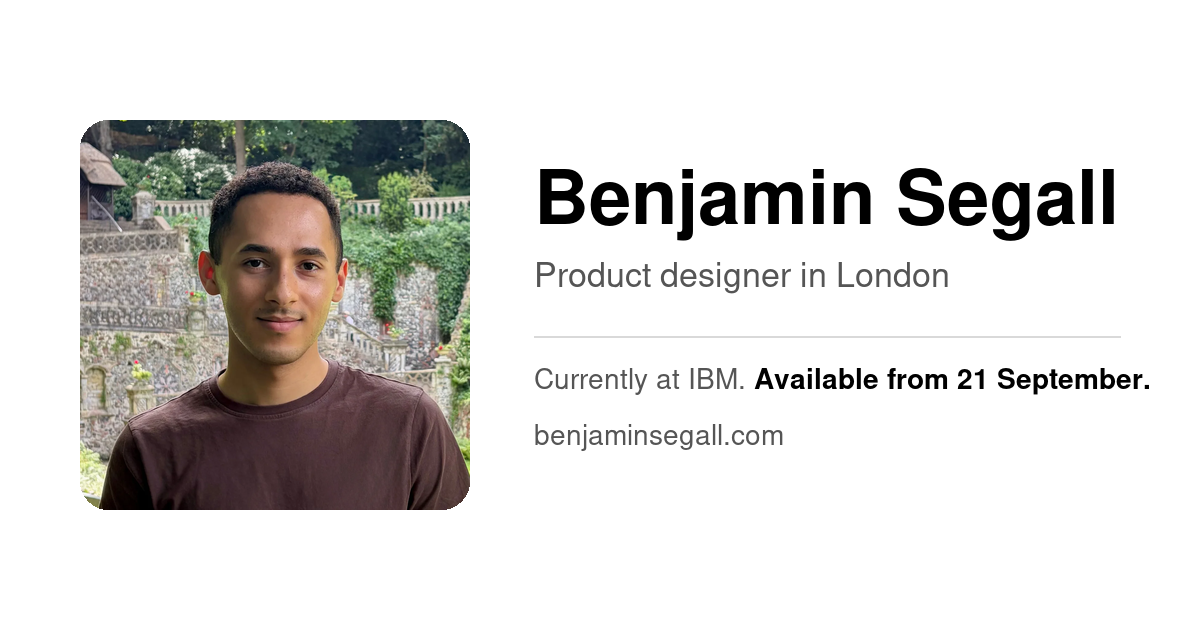
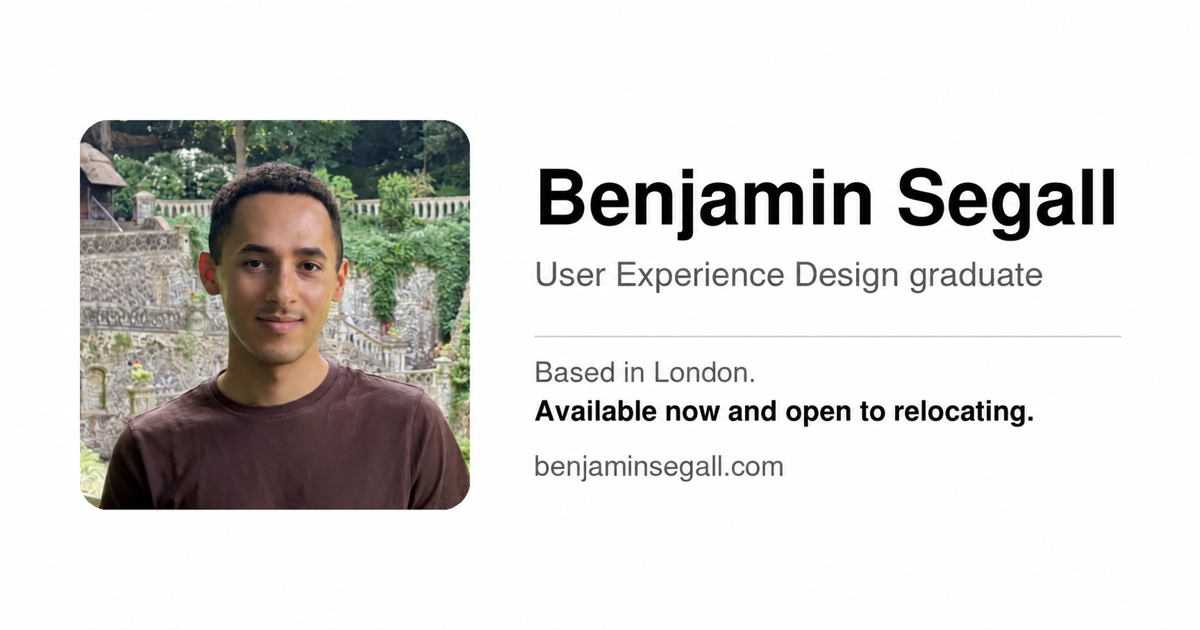
Update About copy, availability and social preview

diff --git a/lib/portfolio-data.ts b/lib/portfolio-data.ts
@@ -97,19 +97,17 @@ export function isGated(project: Project | GatedProject): project is GatedProjec
 export const profile = {
   name: "Benjamin Segall",
   bio: [
-    "I'm a product designer in London, with roots in the USA. I studied UX at Norwich University of the Arts and have worked across agency and consultancy teams, learning to hold user needs and business goals in the same hand.",
+    "Hi, I'm Ben. I recently graduated in User Experience Design from Norwich University of the Arts, with experience across agency, consultancy, enterprise and university teams. I enjoy understanding what people need and finding practical ways to make things work better.",
   ],
   // Revealed when the bio block is expanded, inserted between `bio` and
-  // `current` — the "Currently at IBM" line stays pinned last in both states.
+  // `current` — the location and availability stay pinned last in both states.
   more: [
-    "I start by understanding the problem, work through what is unclear, and find a practical way forward. I enjoy working early in the process, defining the problem and understanding the business context before deciding what to design, then turning those decisions into something real.",
+    "I like asking questions, listening to different perspectives and working out what to try next. My design background has given me a way to explore problems and test ideas. I'm interested in how organisations work and how technology can be useful in everyday work. I'm looking for an early career role where I can keep learning, work with people and help put improvements into practice.",
   ],
-  // Two sentences, so the availability — the actionable half — can be
-  // emphasised on its own. Combined they read exactly as the content spec:
-  // "Currently at IBM. Available from 21 September."
+  // Keep availability emphasised separately from location.
   current: {
-    employer: "Currently at IBM.",
-    availability: "Available from 21 September.",
+    location: "Based in London.",
+    availability: "Available now and open to relocating.",
   },
   portrait: {
     src: "/images/site/portrait.webp",
@@ -415,19 +413,17 @@ export const siteMeta = {
   /**
    * The site's name, everywhere a name is asked for: the <title>, so the tab,
    * bookmarks and history read as it; and the share card's headline and site
-   * name. Deliberately not "Benjamin Segall, Product Designer in London" — the
-   * role belongs in `description`, which sits directly under the headline on a
-   * card, and saying it in both stutters it back twice in two lines.
+   * name. The description adds background and availability below the name.
    */
   name: "Benjamin Segall",
-  description: "Product designer in London. Selected work across enterprise software, fintech and B2B SaaS.",
+  description: "User Experience Design graduate with experience across agency, consultancy, enterprise and university teams. Based in London, available now and open to relocating.",
   /** Live origin. Open Graph needs absolute URLs, so this resolves the card. */
   url: "https://www.benjaminsegall.com",
   /**
-   * The share card, at the 1200x630 every platform expects. Regenerate it if
-   * the availability line changes — it carries that date, same as the page.
+   * The 1200x630 share card. Update the image and its version together when
+   * the introduction or availability changes so image caches can refresh.
    */
-  ogImage: "/images/site/og.png",
+  ogImage: "/images/site/og.png?v=20260927",
   ogImageAlt:
-    "Benjamin Segall, product designer in London. Currently at IBM, available from 21 September.",
+    "Benjamin Segall. User Experience Design graduate. Based in London. Available now and open to relocating.",
 }

diff --git a/components/portfolio/bio.tsx b/components/portfolio/bio.tsx
@@ -7,7 +7,7 @@ const PANEL_ID = "bio-more"
 
 /**
  * The bio, with an extra paragraph that expands in above the pinned
- * "Currently at IBM" line, and a visible trigger below that line.
+ * location and availability line, and a visible trigger below that line.
  *
  * Opening is a click or tap anywhere on the block, or Enter/Space on the
  * trigger — never hover. The block used to open on hover, which left nothing
@@ -124,7 +124,7 @@ export function Bio() {
           </div>
 
           <p className="mt-4 text-base text-muted-foreground">
-            {profile.current.employer}{" "}
+            {profile.current.location}{" "}
             <span className="text-foreground">
               {profile.current.availability}
             </span>

diff --git a/app/layout.tsx b/app/layout.tsx
@@ -36,9 +36,7 @@ export const metadata: Metadata = {
     type: 'website',
     url: '/',
     siteName: siteMeta.name,
-    // The card headline is the name alone. The line under it already opens
-    // with "Product designer in London", so putting the role in both stutters
-    // it back at the reader twice in two lines.
+    // Keep the name as the headline, with background in the description.
     title: siteMeta.name,
     description: siteMeta.description,
     locale: 'en_GB',
